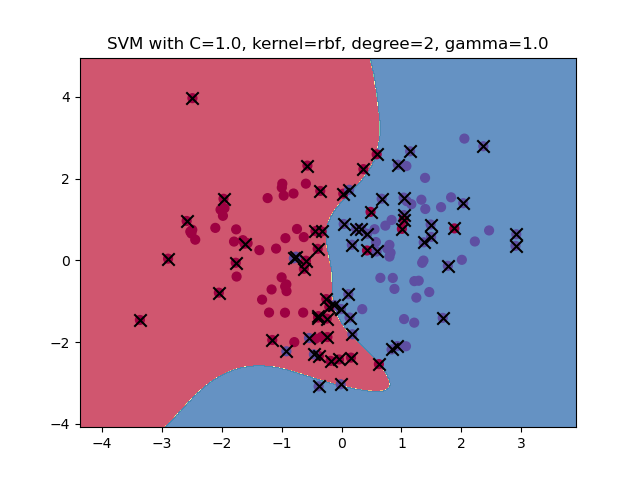
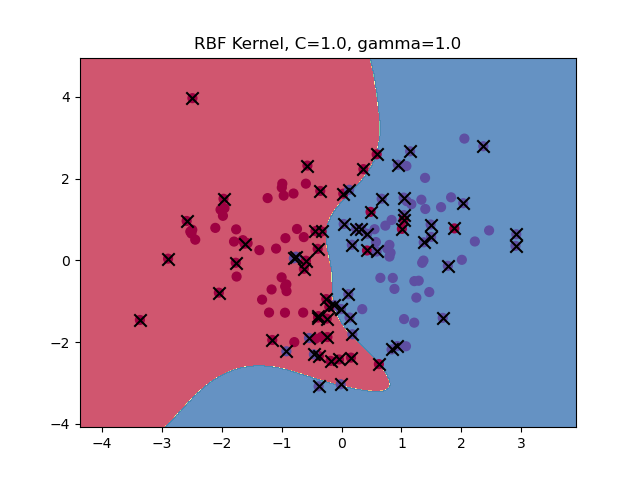
Added Decision boundary plot

Changed region(s): [[0.1562, 0.0625, 0.8125, 0.125], [0.8438, 0.0625, 0.875, 0.0938]]

diff --git a/SVM/svm.py b/SVM/svm.py
@@ -274,11 +274,11 @@ def plot_contour(X, y, svm:SVM, title:str):
     plt.title(title)
     plt.show()
 
-if __name__ == "__main__":
+def main():
     np.random.seed(42)
 
-    data = make_moons(n_samples=200, noise=0.1, random_state=42)
-    # data = make_classification(n_samples=200, n_features=2, n_redundant=0, n_informative=2)
+    # data = make_moons(n_samples=200, noise=0.1, random_state=42)
+    data = make_classification(n_samples=200, n_features=2, n_redundant=0, n_informative=2)
     X = data[0]
     y = data[1]
 
@@ -286,12 +286,19 @@ if __name__ == "__main__":
     X_train, X_test, y_train, y_test = train_test_split(X, y, test_size=0.3, random_state=4)
 
     # Create a SVM classifier
-    svm = SVM(C=1.0, kernel='rbf', degree=3, gamma=3.0)
+    svm = SVM(C=1.0, kernel='rbf', degree=2, gamma=1.0)
     svm.fit(X_train, y_train)
 
     predicted = svm.predict(X_test)
     print(f'Accuracy: {accuracy_score(y_test, predicted)}')
 
-    title = f'SVM with C={svm.C}, kernel={svm.kernel}, degree={svm.degree}, gamma={svm.gamma}'
+    if svm.kernel == 'linear':
+        title = f'Linear Kernel, C={svm.C}'
+    elif svm.kernel == 'rbf':
+        title = f'RBF Kernel, C={svm.C}, gamma={svm.gamma}'
+    elif svm.kernel == 'poly':
+        title = f'SVM with C={svm.C}, kernel={svm.kernel}, degree={svm.degree}, gamma={svm.gamma}'
     plot_contour(X_train, y_train, svm, title)
-    
+
+if __name__ == "__main__":
+    main()
